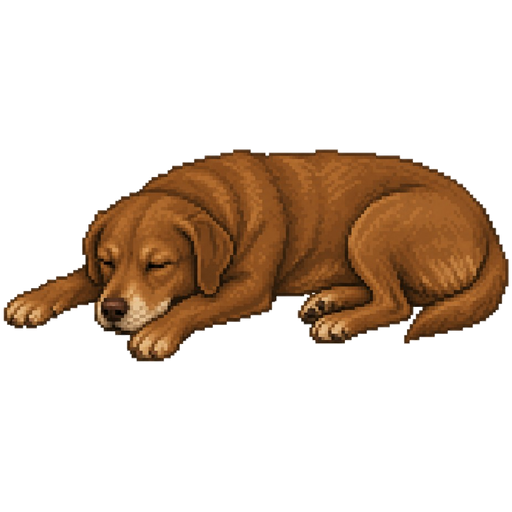
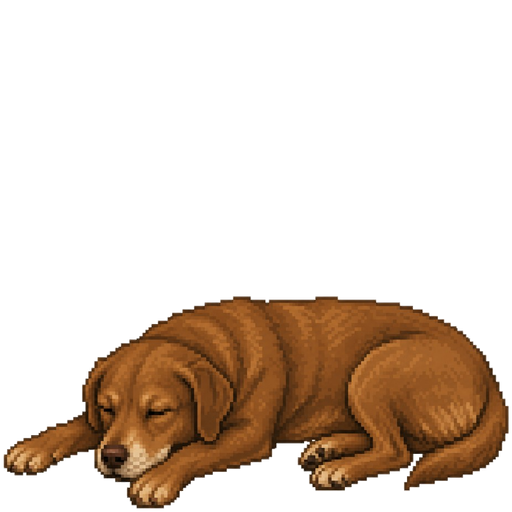
Sit Caliper on the ground in pet sprites.

diff --git a/components/PetIcon.tsx b/components/PetIcon.tsx
@@ -17,13 +17,14 @@ export function PetSprite({
   size?: number;
   className?: string;
 }) {
+  const grounded = familiar === "caliper";
   return (
     <Image
       src={familiar ? FAMILIAR_PET_IMAGES[familiar] : PET_IMAGES[species]}
       alt=""
       width={size}
       height={size}
-      className={`object-contain drop-shadow-md ${className}`}
+      className={`object-contain drop-shadow-md ${grounded ? "object-bottom" : ""} ${className}`}
       style={{ width: size, height: size }}
       unoptimized
     />
